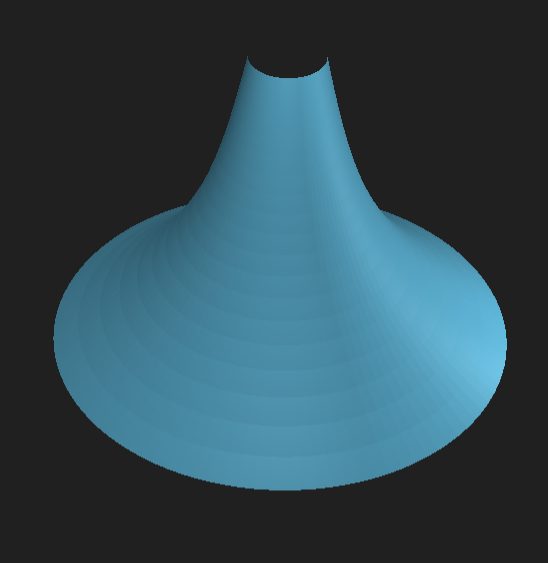
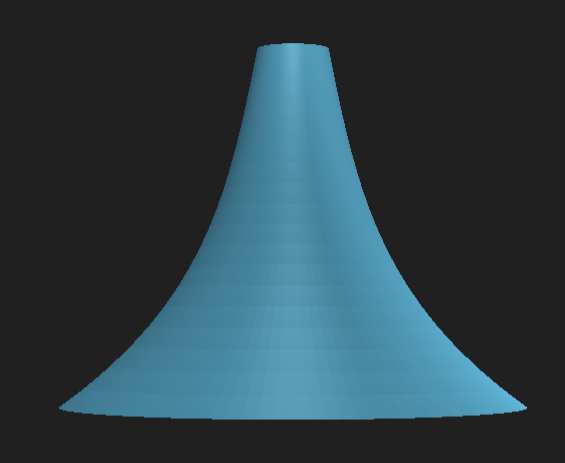
rework code

Changed region(s): [[0.0931, 0.0907, 0.9307, 0.9071]]

diff --git a/app/controllers/kolme_d_controller.rb b/app/controllers/kolme_d_controller.rb
@@ -2,29 +2,29 @@ class KolmeDController < ApplicationController
   include KolmeDHelper
 
   def show
-    set_template(params[:id])
+    set_data
     render( template: @template)
   end
   private
-  def set_template(id)
-    return lamp if id.end_with?("shade")
+  def set_data
+    id = params[:id]
     @template = "kolme_d/#{id}"
+    set_lamp_data if all_shades.include?(id.to_sym)
   end
-  def lamp
+  def set_lamp_data
     @template = "kolme_d/shade"
-    @data = send( params[:id] )
-    @text = send( "#{params[:id]}_text" )
+    send( params[:id] )
+    @header , @text = send( "#{params[:id]}_text" )
   end
   def shade
-    ret = {}
-    curved_shade.keys.each do |key|
+    @data = {}
+    bell_shade.keys.each do |key|
       next unless val = params[key]
-      ret[key] = val.to_f
+      @data[key] = val.to_f
     end
-    ret
   end
   def basic_shade
-    {  radius0:   20 ,
+    @data = {  radius0:   20 ,
        radius100: 130 ,
        height:   180 ,
        radialSegments: 24,
@@ -32,7 +32,7 @@ class KolmeDController < ApplicationController
      }
   end
   def twisted_shade
-    {  radius0:   20 ,
+    @data = {  radius0:   20 ,
        radius100: 100 ,
        height:   180 ,
        heightSegments: 12,
@@ -41,35 +41,35 @@ class KolmeDController < ApplicationController
     }
   end
   def curved_shade
-    {  radius0:   20 ,
+    @data = {  radius0:   20 ,
        radius25: 30 ,
        radius50:  40 ,
        radius75:  60 ,
        radius100: 130 ,
-       height:   180 ,
+       height:   200 ,
        heightSegments: 18,
        radialSegments: 100,
      }
   end
   def pair_shade
-    {  radius0:   30 ,
+    @data = {  radius0:   25 ,
        radius25: 1 ,
        radius50:  75 ,
-       radius75:  90 ,
-       radius100: 50 ,
-       height:   250 ,
-       heightSegments: 24,
-       radialSegments: 16,
+       radius75:  80 ,
+       radius100: 40 ,
+       height:   180 ,
+       heightSegments: 16,
+       radialSegments: 8,
        twist: 120
     }
   end
   def bell_shade
-    {  radius0:   30 ,
+    @data = {  radius0:   30 ,
        radius25:  30 ,
-       radius50:  70 ,
-       radius75: 120 ,
-       radius100: 80 ,
-       height:   160 ,
+       radius50:  90 ,
+       radius75: 150 ,
+       radius100: 100 ,
+       height:   250 ,
        heightSegments: 12,
        radialSegments: 18 ,
        twist: 120

diff --git a/app/helpers/kolme_d_helper.rb b/app/helpers/kolme_d_helper.rb
@@ -1,33 +1,40 @@
 module KolmeDHelper
+  def all_shades
+    [:basic_shade , :twisted_shade , :curved_shade , :pair_shade,
+      :bell_shade , :shade]
+  end
   def basic_shade_text
+    ["Simple lamp" ,
     "  This is a basic cylinder geometry, copied fromm threejs.
       One can get surprisingly far by using the sliders.
       HeightSegments will only later become obvious.
-    "
+    "]
   end
   def twisted_shade_text
-    "Twist is achieved with the bottom (twist) control. Results are best for
+    [ "Twisted lamp",
+      "Twist is achieved with the bottom (twist) control. Results are best for
     quite low segment values, so the triangles show better.
-    "
+    "]
   end
   def curved_shade_text
-    "
-      The extra radii (25,50,75) pull the shape into that direction. Only the 0
-      and 100, ie top and bottom, are exact. Lots of fun to be had here.
-    "
+    ["Curved lamp",
+      "The extra radii (25,50,75) pull the shape into that direction. Only the 0
+       and 100, ie top and bottom, are exact. Lots of fun to be had here.
+    "]
   end
   def pair_shade_text
-    "
-      The extra radii (25,50,75) pull the shape into that direction. Only the 0
-      and 100, ie top and bottom, are exact. Lots of fun to be had here.
-    "
+    ["Pair shape",
+      "With the 5 control points can pull the shape out and back in.
+       And by using the Segments get some very nice looks.
+    "]
   end
   def bell_shade_text
-    "
-      A Bell shape i happen to like.
-    "
+    ["1001 Nights",
+      "A shape Raisa enjoyed so much she named it. "]
   end
   def shade_text
-    "This is your own creation, enjoy and share."
+    name = params[:name] || "Your own"
+    [name, "This is your own creation, enjoy and share. If you puts a name=
+      key into the url, you can name it!"]
   end
 end
